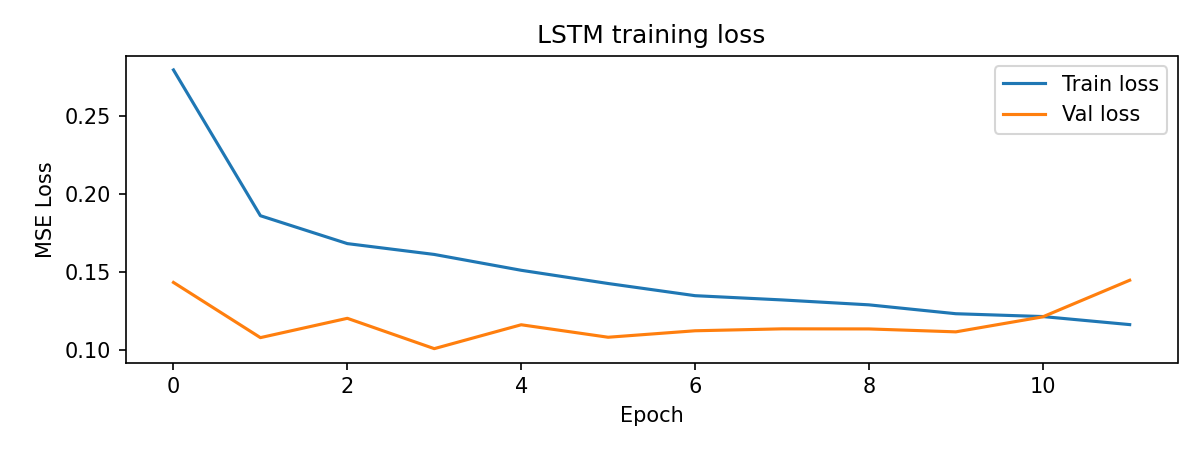
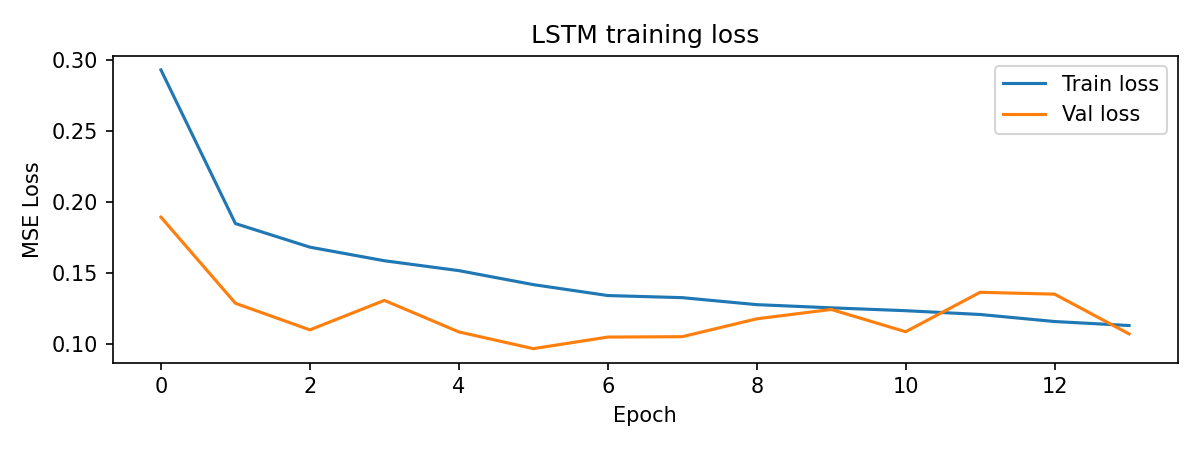
Updated with season features added

diff --git a/train.py b/train.py
@@ -235,7 +235,7 @@ def engineer_features(df: pd.DataFrame) -> pd.DataFrame:
         df.groupby("City")["AQI"]
         .transform(lambda x: x.rolling(7, min_periods=1).std().fillna(0))
     )
-
+# “How much did AQI change compared to the previous day?”
     df["AQI_delta"] = df.groupby("City")["AQI"].diff().fillna(0)
 
     df.dropna(subset=["AQI_lag1", "AQI_lag3", "AQI_lag7"], inplace=True)